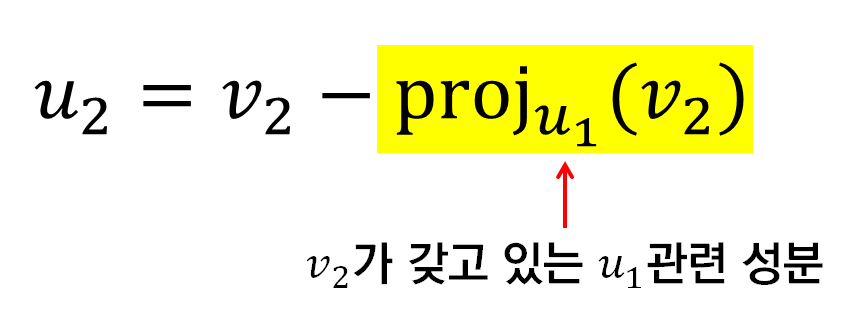
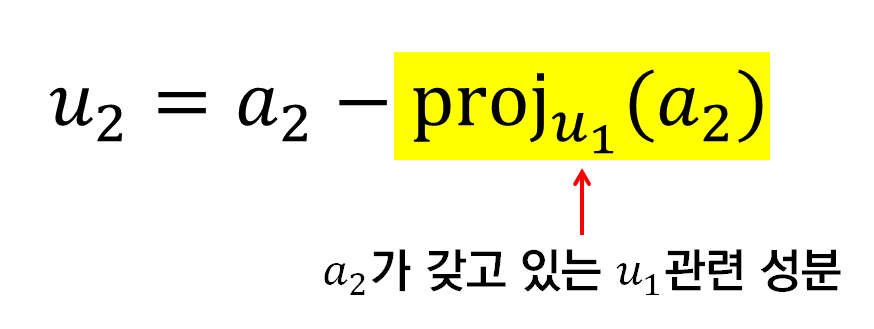
-

diff --git a/_posts/2020-11-23-gram_schmidt.md b/_posts/2020-11-23-gram_schmidt.md
@@ -146,30 +146,30 @@ $$\text{proj}_a = \frac{aa^T}{a^Ta}$$
 
 Gram-schmidt 직교화 과정을 수식으로 표현하면 아래와 같다.
 
-벡터 공간 $V$상에서 주어진 벡터 $v_1, \cdots, v_k$를 이용하여 다음과 같이 정규직교기저를 구할 수 있다.
+벡터 공간 $V$상에서 주어진 일차 독립인 벡터 $a_1, \cdots, a_k$를 이용하여 다음과 같이 정규직교기저를 구할 수 있다.
 
-$$u_1 = v_1$$
+$$u_1 = a_1$$
 
-$$u_2 = v_2 - \text{proj}_{u_1}(v_2)$$
+$$u_2 = a_2 - \text{proj}_{u_1}(a_2)$$
 
-$$u_3 = v_3 - \text{proj}_{u_1}(v_3) - \text{proj}_{u_2}(v_3)$$
+$$u_3 = a_3 - \text{proj}_{u_1}(a_3) - \text{proj}_{u_2}(a_3)$$
 
 $$\vdots \notag$$
 
-$$u_k = v_k -\sum_{j=1}^{k-1}\text{proj}_{u_j}(v_k)$$
+$$u_k = a_k -\sum_{j=1}^{k-1}\text{proj}_{u_j}(a_k)$$
 
 이렇게 생성한 벡터의 집합 $\lbrace u_1, u_2, \cdots, u_k \rbrace$는 직교적인데, 여기서 각각의 벡터들의 크기(norm)로 나누어주어 정규직교화 시키자.
 
 즉, 
 
-$$e_i = \frac{u_i}{||u_i||}$$
+$$q_i = \frac{u_i}{||u_i||}$$
 
-로 정의하면 벡터 공간 $V$의 정규 직교 기저 $\lbrace e_1, e_2, \cdots, e_k \rbrace$를 얻을 수 있다.
+로 정의하면 벡터 공간 $V$의 정규 직교 기저 $\lbrace q_1, q_2, \cdots, q_k \rbrace$를 얻을 수 있다.
 
 수식으로 쓰면 조금 어려워 보이지만, 수식의 본질적인 의미는 아래와 같다.
 
 <p align = "center">
-  <img src = "https://raw.githubusercontent.com/angeloyeo/angeloyeo.github.io/master/pics/2020-11-23-gram_schmidt/pic5.png">
+  <img width = "400" src = "https://raw.githubusercontent.com/angeloyeo/angeloyeo.github.io/master/pics/2020-11-23-gram_schmidt/pic5.png">
   <br>
   그림 5. 그람 슈미트 과정의 수식이 말해주는 것
 </p>
@@ -182,12 +182,15 @@ $$e_i = \frac{u_i}{||u_i||}$$
   <img src = "https://raw.githubusercontent.com/angeloyeo/angeloyeo.github.io/master/pics/2020-11-23-gram_schmidt/pic6.png">
   <br>
   그림 6. 그람 슈미트 과정의 기본 원리
-  <br>
-  <a href = "https://ko.wikipedia.org/wiki/%EA%B7%B8%EB%9E%8C-%EC%8A%88%EB%AF%B8%ED%8A%B8_%EA%B3%BC%EC%A0%95"> 출처: 위키피디아, 그람-슈미트 과정</a>
 </p>
 
+그람-슈미트 과정은 이런 방식으로 iterative하게 주어진 벡터 집합에 대한 새로운 정규직교기저 벡터를 찾아낼 수 있게 해준다.
 
 # QR 분해
+
+QR 분해는 그람-슈미트 과정을 이용해 찾아낸 정규직교기저 벡터를 이용해 행렬을 분해하는 과정이다.
+
+그람-슈미트 과정을 통해 얻어낸 정규직교기저를 $q_1, \cdots, q_n$이라고 하고 이들을 모아둔 행렬을 $Q$라고 하면 다음이 성립한다.
 
 $$A = QR$$
 
@@ -206,6 +209,14 @@ $$\begin{bmatrix}
   a_1\cdot q_n & a_2\cdot q_n & \cdots & a_n\cdot q_n \\
   \end{bmatrix}$$
 
+여기서 $a_1\cdot q_2$를 생각해보면 $q_2$는 $a_1$ 혹은 $q_1$의 성분이 모두 제거되었기 대문에 값이 0이다.
+
+마찬가지 이유로 $a_i\cdot q_j$에 대해 $i\lt j$인 경우 $a_i\cdot q_j=0$이다. 
+
+왜냐면 $j$ 번째 정규직교기저 $q_j$에서는 $a_i \text{ where } i\lt j$의 성분들을 모두 다 빼버렸기 때문이다.
+
+따라서 아래의 식이 성립한다.
+
 $$=\begin{bmatrix}
   | & | & \text{ } & | \\ 
   q_1 & q_2 &\cdots & q_n \\ 
@@ -216,3 +227,5 @@ $$=\begin{bmatrix}
   \vdots & \vdots & \ddots & \vdots \\
   0 & 0 & \cdots & a_n\cdot q_n \\
   \end{bmatrix}$$
+
+이것을 QR 분해라고 부른다.
